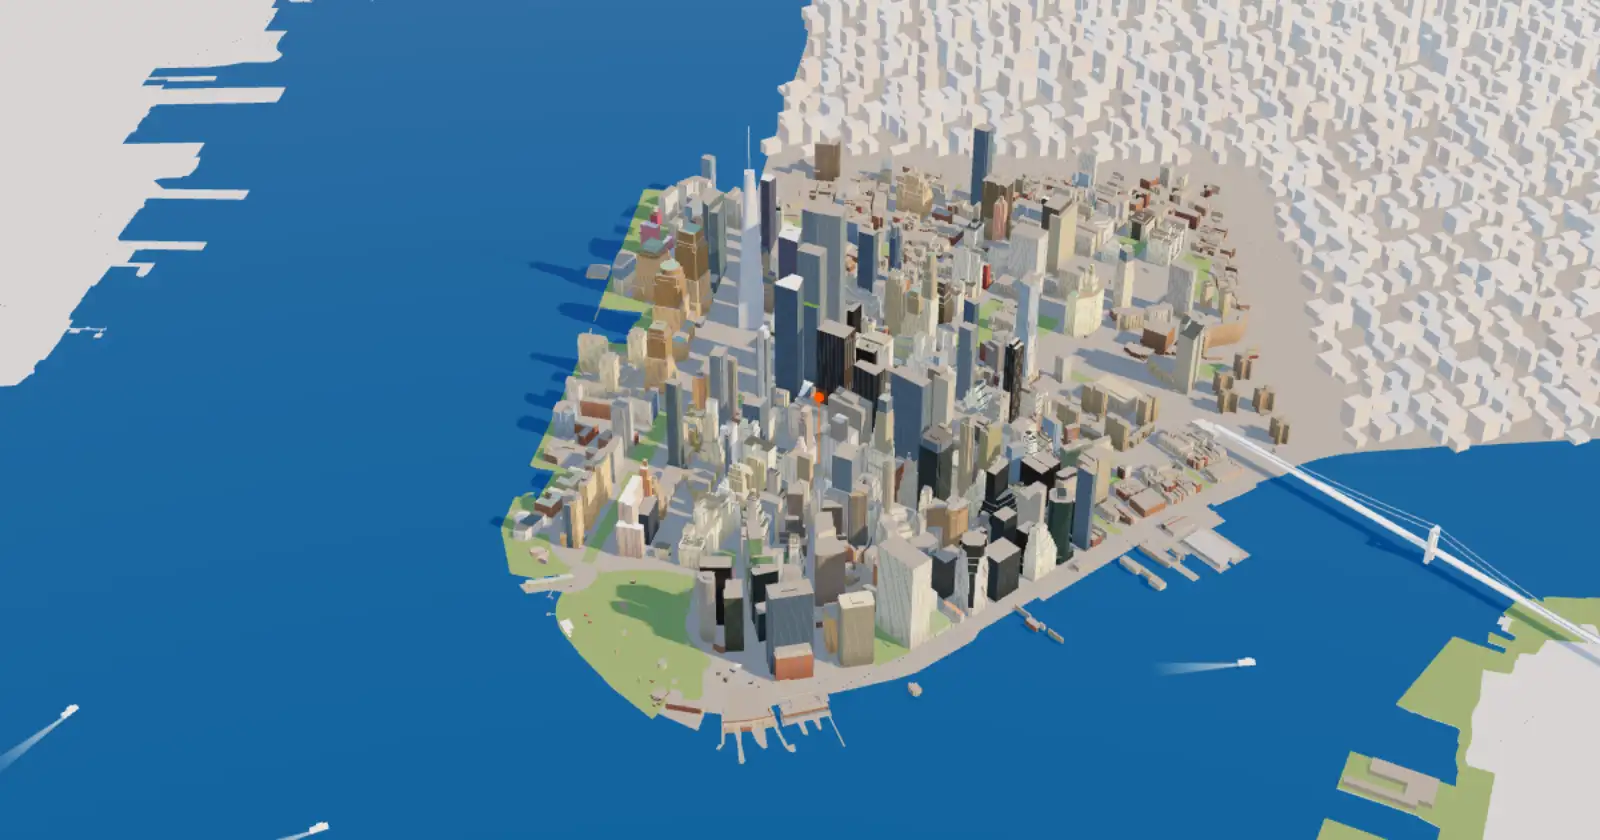
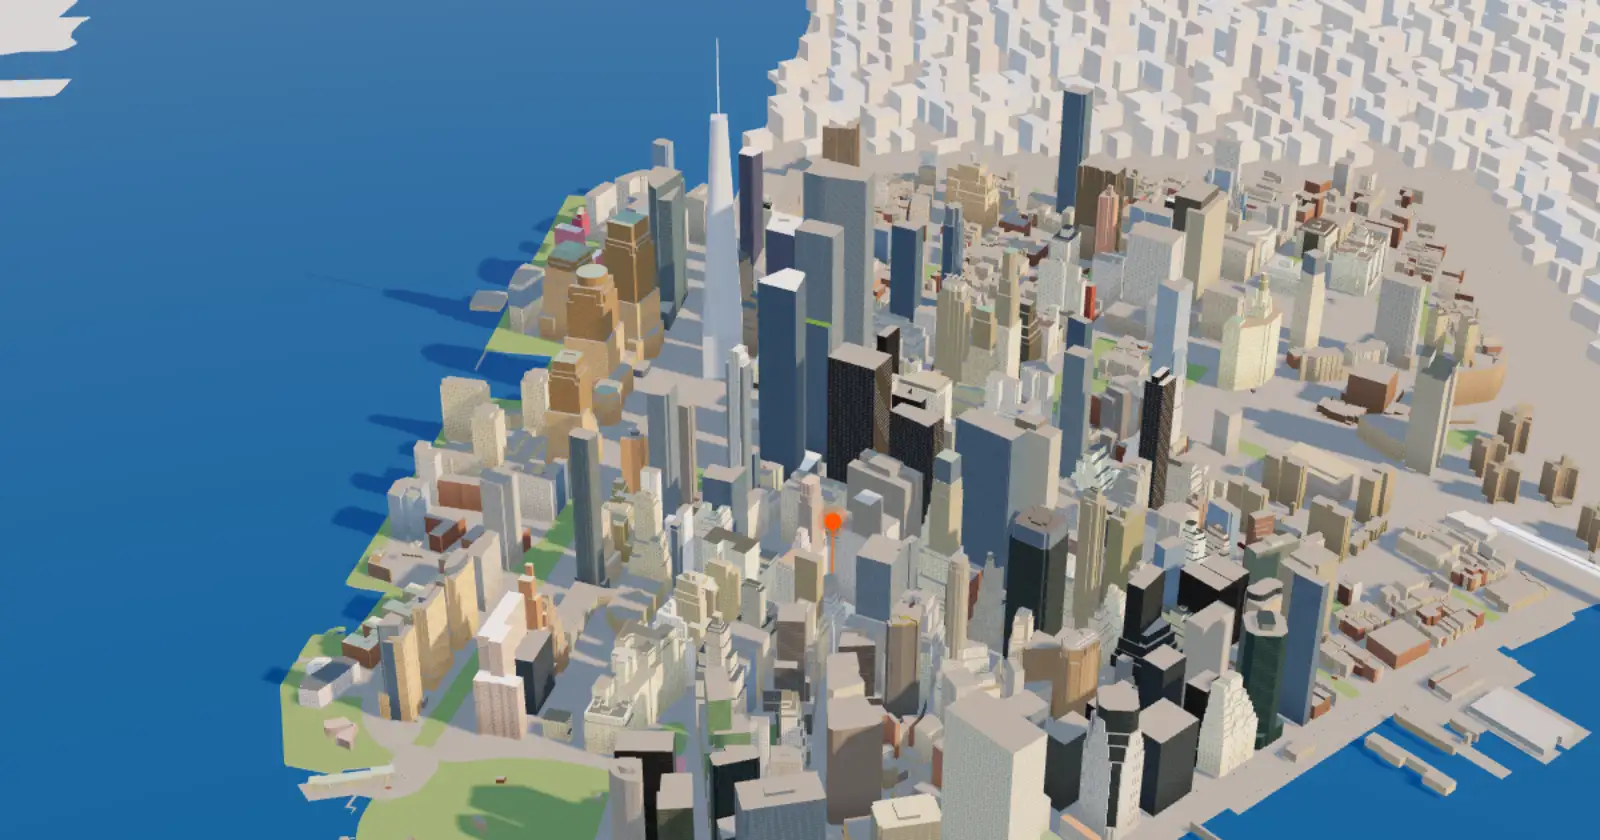
Hero aligned to the reference layout

diff --git a/src/city.js b/src/city.js
@@ -131,7 +131,7 @@ export function createCity({ canvas, label, reducedMotion = false, withClouds = 
     }
   };
   const grow = []; // landmark groups scaled on Y during the intro
-  const PIN_Y = 34; // above every tower around the NYSE (tallest neighbour ≈ 23 units)
+  const PIN_Y = 22; // above every tower around the NYSE (tallest neighbour ≈ 23 units)
   let ring, anchor = new THREE.Vector3(0, PIN_Y + 4, 0); // label sits just above the pin
   const keepClearOf = new THREE.Vector3(0, 8, 0); // the NYSE: clouds never cross the camera's view of it
 
@@ -469,8 +469,8 @@ export function createCity({ canvas, label, reducedMotion = false, withClouds = 
   // the hero, Midtown and the Empire State in the haze), not a map of rooftops. Real towers hide the NYSE from here
   // (ray-marched), so an orange map pin rises above the skyline at its spot.
   // From over the harbour, south of the tip, looking up the island: the tip centred under the headline, water on both sides.
-  const target = new THREE.Vector3(-5, 0, -60);
-  const rig = { az: 0, pol: 0.95, r: 1150 };
+  const target = new THREE.Vector3(-5, 20, -50);
+  const rig = { az: 0, pol: 1.05, r: 680 }; // matched to the user's reference layout: tip centred under the copy, water both sides
   const ptr = { x: 0, y: 0, sx: 0, sy: 0 };
   let scroll = 0, size = { w: 1, h: 1, top: 0 }, zoom = 1;
 
@@ -482,7 +482,7 @@ export function createCity({ canvas, label, reducedMotion = false, withClouds = 
     renderer.setSize(w, h, false);
     camera.aspect = w / h;
     // Lens shift: city sits right of the copy on desktop, below it on phones.
-    if (w >= 900) camera.setViewOffset(w, h, 0, -h * 0.27, w, h); // centred layout: the city sits in the lower part of the hero, under the copy
+    if (w >= 900) camera.setViewOffset(w, h, 0, -h * 0.02, w, h); // centred layout: the city sits in the lower part of the hero, under the copy
     else camera.setViewOffset(w, h, 0, h * 0.06, w, h);
     camera.updateProjectionMatrix();
   }

diff --git a/src/style.css b/src/style.css
@@ -940,3 +940,16 @@ main > section:not(.hero):not(.how-dark):not(.pricing):not(.cta), body > .footer
 @media (max-width: 560px) { .section-head-row > .tabs { align-self: stretch; justify-content: flex-start; } }
 /* The floating phone holds still while someone is using it. */
 .product .phone:hover, .product .phone:focus-within { animation-play-state: paused; }
+
+/* Hero aligned to the user's reference (measured at 1513×1039): eyebrow y≈100, ~56px headline, 18px lead ~650px wide,
+   580px form, live line and facts beneath; the city fills the lower half. */
+.hero { padding-top: 96px; }
+.hero-copy { gap: 0; }
+.hero-copy .eyebrow { margin-bottom: 22px; font-size: 13px; }
+.hero-copy .h1 { font-size: clamp(38px, 3.7vw, 60px); line-height: 1.04; letter-spacing: -0.03em; }
+.hero-copy .lead { margin-top: 22px; font-size: 18px; line-height: 1.5; max-width: 660px; }
+.hero-copy .capture { margin-top: 26px; max-width: 580px; }
+.hero-copy .capture-error { margin-top: 8px; }
+.hero-copy .live { margin-top: 22px; }
+.hero-copy > .proof { margin-top: 26px; }
+@media (min-width: 901px) { .hero { min-height: 1040px; } } /* fixed stage, so the city always sits below the copy as in the reference */

diff --git a/src/main.js b/src/main.js
@@ -13,7 +13,7 @@ const hero = $('.hero');
 const canvas = $('.hero-canvas');
 const label = $('.ws-label');
 const poster = $('.hero-poster');
-const POSTER_LABEL = { x: 0.512, y: 0.458 }; // from render-poster.mjs: fraction of the 1600×840 poster
+const POSTER_LABEL = { x: 0.521, y: 0.594 }; // from render-poster.mjs: fraction of the 1600×840 poster
 function placePosterLabel() {
   // Mirror object-fit: cover on the poster's real box (CSS owns the band's size, zoom and offset).
   const hb = hero.getBoundingClientRect();
